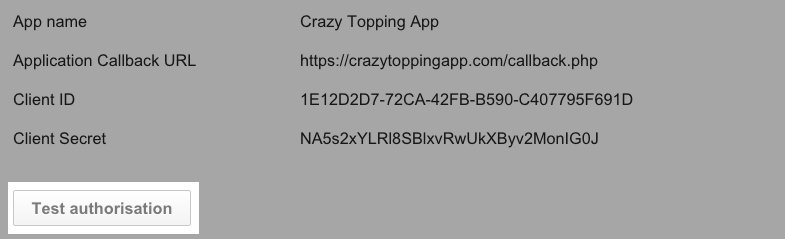
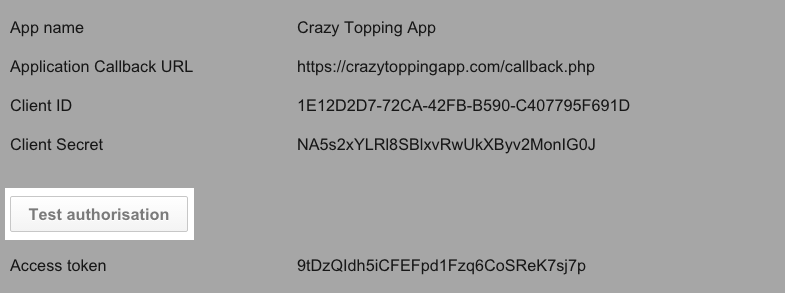
Update create an app on test authorisation flow
* TW-126
* Adapt instructions according to changed flow

diff --git a/apps/create-app.md b/apps/create-app.md
@@ -30,20 +30,26 @@ Note: HTTP Application Callback URLs can be used for developer apps, but you nee
 Once the input fields are filled out, click the button **Generate access data**.
     {% image fillout-app-name.png %}{% endimage %}
 
-4. You will be assigned a **Client ID** and a **Client Secret**.
+4. You will be assigned a **Client ID**, a **Client Secret** as well as an **Access Token**.
+The **Access token** is granted by your test shop, so that you can start accessing the ePages API immediately.
     {% image test-shop-credentials.png %}{% endimage %}
-Happy coding! Once this is done, you can start coding away.
-You are free to use any kind of programming language.
-But when developing your app, please consider our [API call limit](page:apps-api-call-limit).
-
-5. Once you have developed your app, click the button **Test authorisation**.
-    {% image test-authorisation.png %}{% endimage %}
-
-6. After successful authorisation, you will be assigned an **Access token**.
-      {% image access-token.png %}{% endimage %}
-Integrate the **Access token** into your application and test your app.
-Make sure that your app can access the API.
 
 {% callout danger Important! %}
 Store your **Client Secret** and **Access token** securely!
 {% endcallout %}
+
+# Happy coding!
+
+Once this is done, you can start coding away.
+You are free to use any kind of coding language.
+But when developing your app, please consider our [API call limit](page:apps-api-call-limit).
+
+# Test the authorisation process
+
+Once you have developed your app, click the button **Test authorisation**.
+Your app will be checked for proper implementation of the [OAuth 2.0 flow](page:apps-install#authorisation-process).
+{% image test-authorisation.png %}{% endimage %}
+
+After successful authorisation, you will be assigned a new **Access token**.
+If the authorisation process failed, the **Access token** will be removed.
+To create a new token, simply create a new developer app.
